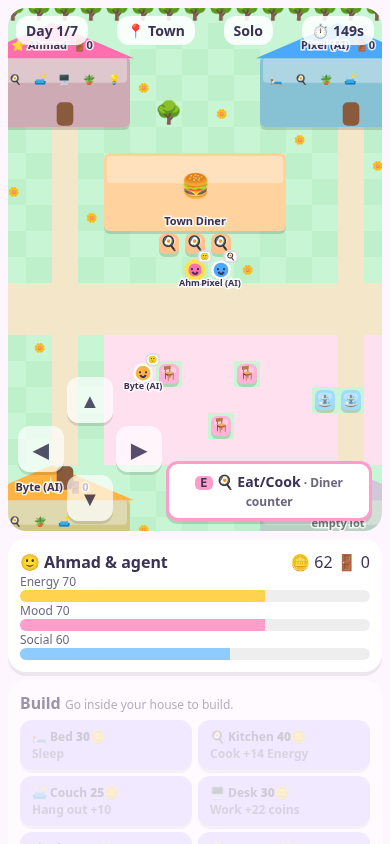
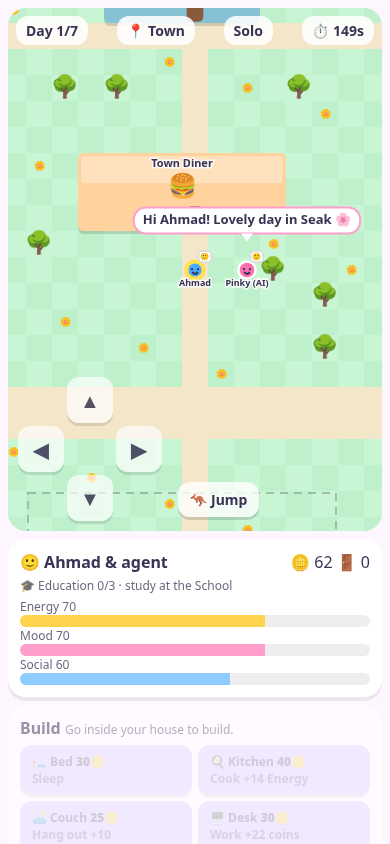
Bigger 68x46 town, walk-in Diner/Office/School/Arcade, school+graduation, work drains mood, jump emote, Pinky AI; tests

diff --git a/test_mp.js b/test_mp.js
@@ -1,17 +1,23 @@
 // Headless multiplayer test. Run: SEAK_SPEED=0.06 node server.js  then  node test_mp.js
-// Covers: create/join, movement sync between clients, an action trigger (Sleep at bed), a visit, full 7 days, synced results.
+// Covers: create/join, jump emote sync, walk-in Diner + eat inside, movement sync between clients, an action trigger (Sleep at bed), a visit, full 7 days, synced results.
 const WebSocket=require('ws');const URL='ws://localhost:'+(process.env.PORT||3000);
+const fs=require('fs'),vm=require('vm');const ectx={module:{exports:{}},globalThis:{}};vm.runInNewContext(fs.readFileSync(__dirname+'/index.html','utf8').match(/<script id="engine">([\s\S]*?)<\/script>/)[1],ectx);const E=ectx.module.exports;
 const sleep=ms=>new Promise(r=>setTimeout(r,ms));
-const mk=n=>new Promise(r=>{const ws=new WebSocket(URL);ws.st=null;ws.errs=[];ws.on('message',d=>{const m=JSON.parse(d);if(m.t==='welcome')ws.id=m.id;if(m.t==='state')ws.st=m.state;
+const mk=n=>new Promise(r=>{const ws=new WebSocket(URL);ws.st=null;ws.errs=[];ws.emotes=[];ws.on('message',d=>{const m=JSON.parse(d);if(m.t==='emote')ws.emotes.push(m.id);if(m.t==='welcome')ws.id=m.id;if(m.t==='state')ws.st=m.state;
  if(m.t==='pos'&&ws.st)for(const id in m.p){const[a,x,y,dir]=m.p[id];if(ws.st.players[id])ws.st.players[id].pos={map:a,x,y,dir};}if(m.t==='err'){ws.errs.push(m.msg);console.log(n,'err:',m.msg);}});ws.on('open',()=>r(ws));});
 const wait=(f,ms=20000,what='')=>new Promise((r,j)=>{const t0=Date.now(),i=setInterval(()=>{if(f()){clearInterval(i);r();}else if(Date.now()-t0>ms){clearInterval(i);j(new Error('timeout: '+what));}},10);});
 const tx=(ws,m)=>ws.send(JSON.stringify(m));
 async function walk(ws,dx,dy,n){for(let i=0;i<n;i++){tx(ws,{t:'step',dx,dy});await sleep(120);}}
+async function walkTo(ws,map,goalFn){for(let i=0;i<200;i++){const p=ws.st.players[ws.id],q=p.pos;if(q.map===map&&goalFn(q.x,q.y))return;
+ let fn;if(q.map!==map){if(q.map!=='town'){const d=q.map[0]==='b'?{x:5,y:6}:{x:4,y:6};fn=(x,y)=>x===d.x&&y===d.y;}else{const d=E.doorOf(map);fn=(x,y)=>x===d.x&&y===d.y;}}else fn=goalFn;
+ const n=E.nextStep(ws.st,q.map,q.x,q.y,fn);if(!n)throw new Error('no path');const before=JSON.stringify(q);tx(ws,{t:'step',dx:n[0]-q.x,dy:n[1]-q.y});
+ await wait(()=>JSON.stringify(ws.st.players[ws.id].pos)!==before,1500,'step ack').catch(()=>{});await sleep(100);}throw new Error('walkTo timeout');}
 let pass=0;const ok=m=>{pass++;console.log('✔',m);};
 (async()=>{const a=await mk('A');tx(a,{t:'create',name:'Ahmad'});await wait(()=>a.st,5000,'create');const code=a.st.code;ok('room created '+code);
  const b=await mk('B');tx(b,{t:'join',code,name:'Juno'});await wait(()=>b.st&&a.st.order.length===2,5000,'join');ok('B joined, both see 2 players');
  tx(a,{t:'start'});await wait(()=>b.st.phase==='day'&&b.st.day===1,5000,'start');ok('day 1 started on both clients');
  const A=()=>b.st.players[a.id].pos,start={...A()};
+ tx(a,{t:'emote'});await wait(()=>b.emotes.includes(a.id),2000,'emote');ok('jump emote from A reached B');
  await walk(a,-1,0,1);await wait(()=>A().x===start.x-1,2000,'move sync');ok(`movement synced: B sees A move ${start.x},${start.y} -> ${A().x},${A().y}`);
  await walk(a,1,0,1);await walk(a,0,-1,1);await wait(()=>A().map==='h0',2000,'enter');ok('B sees A enter their house (map h0)');
  await walk(a,-1,0,3);await walk(a,0,-1,3);await wait(()=>A().x===1&&A().y===2,2000,'reach bed');
@@ -19,11 +25,13 @@ let pass=0;const ok=m=>{pass++;console.log('✔',m);};
  await wait(()=>b.st.players[a.id].busy&&b.st.players[a.id].busy.a==='sleep',3000,'busy');ok('action trigger: A sleeping at bed (B sees busy=sleep)');
  await wait(()=>!a.st.players[a.id].busy,5000,'finish');ok(`sleep finished, energy ${e0} -> ${a.st.players[a.id].needs.energy} (server-authoritative)`);
  // B walks along row 5 to A's door and in => Visit
- const bs=b.st.players[b.id].pos;await walk(b,-1,0,bs.x-6);await walk(b,0,-1,1);
+ const bs=b.st.players[b.id].pos;await walk(b,-1,0,bs.x-start.x);await walk(b,0,-1,1);
  await wait(()=>a.st.players[a.id].visits===1&&a.st.players[b.id].pos.map==='h0',3000,'visit');ok(`visit: B entered A's house, A visits=${a.st.players[a.id].visits}, log: "${a.st.log.filter(l=>/visited/.test(l.m)).pop().m}"`);
  await walk(b,0,1,1);await wait(()=>a.st.players[b.id].pos.map==='town',2000,'exit');await walk(b,0,-1,1);await sleep(300);
  if(a.st.players[a.id].visits!==1)throw new Error('visit counted twice same day');ok('re-entering same day does not add a second visit');
  tx(a,{t:'buy',item:'plant',x:5,y:2});await wait(()=>b.st.players[a.id].items.some(i=>i.t==='plant'),3000,'buy');ok('build synced: plant placed at (5,2)');
+ await walkTo(a,'b:diner',(x,y)=>E.PUB_LAYOUT.diner[y-1]&&E.PUB_LAYOUT.diner[y-1][x]==='C');await wait(()=>b.st.players[a.id].pos.map==='b:diner',2000,'diner sync');ok('A walked through the door into the Town Diner (B sees map b:diner)');
+ const e1=a.st.players[a.id].needs.energy;tx(a,{t:'do',action:'eat'});await wait(()=>b.st.players[a.id].busy&&b.st.players[a.id].busy.src==='Diner counter',3000,'eat');await wait(()=>!a.st.players[a.id].busy,5000,'eat done');ok(`A ate at the diner counter inside: energy ${e1} -> ${a.st.players[a.id].needs.energy}`);
  let days=new Set();await wait(()=>{days.add(a.st.day);return a.st.phase==='results'&&b.st.phase==='results';},90000,'7 days');ok('played through days '+[...days].join(','));
  if(JSON.stringify(a.st.results)!==JSON.stringify(b.st.results))throw new Error('results desync');ok('results identical on both clients: '+JSON.stringify(a.st.results));
  console.log(`PASS (${pass} checks)`);process.exit(0);})().catch(e=>{console.error('FAIL',e.message);process.exit(1);});

diff --git a/test_engine.js b/test_engine.js
@@ -1,0 +1,29 @@
+// Engine unit test (no browser/server): AI games, public buildings, crowding, work mood drain, school & graduation, Pinky.
+const fs=require('fs'),vm=require('vm');const src=fs.readFileSync(__dirname+'/index.html','utf8').match(/<script id="engine">([\s\S]*?)<\/script>/)[1];
+const ctx={module:{exports:{}},globalThis:{}};vm.runInNewContext(src,ctx);const E=ctx.module.exports;
+let fails=0;const ok=(c,m)=>{console.log((c?'✔ ':'✘ ')+m);if(!c)fails++;};
+function walkTo(st,id,map,goalFn,now){for(let i=0;i<400;i++){const p=st.players[id];if(p.pos.map===map&&goalFn(p.pos.x,p.pos.y))return now;
+ let fn;if(p.pos.map!==map){if(p.pos.map!=='town'){const d=p.pos.map[0]==='b'?{x:5,y:6}:{x:4,y:6};fn=(x,y)=>x===d.x&&y===d.y;}else{const d=E.doorOf(map);fn=(x,y)=>x===d.x&&y===d.y;}}else fn=goalFn;
+ const n=E.nextStep(st,p.pos.map,p.pos.x,p.pos.y,fn);if(!n)throw new Error('no path');now+=200;E.step(st,id,n[0]-p.pos.x,n[1]-p.pos.y,now);}throw new Error('walk timeout');}
+const nearSpot=(map,ch)=>{const L=E.PUB_LAYOUT[map.slice(2)];return(x,y)=>[[1,0],[-1,0],[0,1],[0,-1]].some(([dx,dy])=>L[y+dy]&&L[y+dy][x+dx]===ch);};
+// 1. AI-only games
+for(let g=0;g<3;g++){const st=E.createState('X',{speed:1,seed:100+g});['Pinky (AI)','b','c','d'].forEach((n,i)=>E.addPlayer(st,'p'+i,n,true));let now=0;const t0=Date.now();E.startGame(st,now);const seen=new Set();while(st.phase==='day'){now+=50;E.tick(st,now);st.log.slice(-4).forEach(l=>seen.add(l.m));}
+ const R=st.results.rows;const L=[...seen];ok(R.every(r=>r.happiness>20&&r.happiness<=100)&&R.some(r=>r.visits>0),`AI game ${g}: [happiness,visits,built] ${JSON.stringify(R.map(r=>[r.happiness,r.visits,r.built]))}, edu ${JSON.stringify(Object.values(st.players).map(p=>p.edu))}, ${Date.now()-t0}ms CPU`);
+ if(g===0)ok(['Diner counter','Office desk','School desk','Arcade cabinet'].every(k=>L.some(m=>m.includes(k))),'AIs ate/worked/studied/played inside the walk-in buildings');}
+// 2. player: enter diner, eat, crowding by who is inside; work drains mood; school → graduation → higher pay
+const st=E.createState('X',{speed:1});E.addPlayer(st,'me','Ahmad');E.addPlayer(st,'pk','Pinky (AI)',true);E.addPlayer(st,'j','Juno (AI)',true);st.players.pk.ai=st.players.j.ai=false;let now=1000;E.startGame(st,now);
+now=walkTo(st,'me','b:diner',nearSpot('b:diner','C'),now);ok(st.players.me.pos.map==='b:diner','walked through the door into the Town Diner');
+st.players.pk.pos={map:'b:diner',x:8,y:5,dir:'up'};st.players.j.pos={map:'b:diner',x:9,y:5,dir:'up'};
+ok(E.doAction(st,'me','eat',now)==='ok'&&st.players.me.busy.g.energy<10,'crowded diner (2 others inside) gives a smaller meal: +'+st.players.me.busy.g.energy+' Energy');now+=7000;E.tick(st,now);
+now=walkTo(st,'me','b:office',nearSpot('b:office','W'),now);const m0=st.players.me.needs.mood,c0=st.players.me.coins;ok(E.doAction(st,'me','work',now)==='ok','Work at Office desk');now+=9000;E.tick(st,now);
+const pay1=st.players.me.coins-c0;ok(st.players.me.needs.mood<m0,`Work drains Mood: ${m0} -> ${st.players.me.needs.mood}, paid ${pay1}`);
+for(let d=0;d<3;d++){now=walkTo(st,'me','b:school',nearSpot('b:school','K'),now);ok(E.doAction(st,'me','study',now)==='ok',`study session ${d+1} (day ${st.day})`);
+ if(d===0)ok(E.doAction(st,'me','study',now+9000)!=='ok','only one class per day');now+=9000;E.tick(st,now);st.dayEnd=now+1;now+=2;E.tick(st,now);st.dayEnd=now+150000;}
+ok(st.players.me.edu===3,'graduated (edu 3/3)');now=walkTo(st,'me','b:office',nearSpot('b:office','W'),now);st.players.me.cd={};st.players.me.needs.energy=80;const c1=st.players.me.coins;E.doAction(st,'me','work',now);now+=9000;E.tick(st,now);
+ok(st.players.me.coins-c1>pay1,`graduate pay ${st.players.me.coins-c1} > ${pay1}`);
+// arcade
+now=walkTo(st,'me','b:arcade',nearSpot('b:arcade','A'),now);ok(E.doAction(st,'me','play',now)==='ok','played at the Arcade building');now+=7000;E.tick(st,now);
+// Pinky talk
+st.players.pk.pos={...st.players.me.pos};st.players.pk.pos.x+=1;if(!E.walkable(st,st.players.me.pos.map,st.players.pk.pos.x,st.players.pk.pos.y))st.players.pk.pos.x-=2;
+ok(E.actionsAt(st,'me')[0].action==='talk'&&E.doAction(st,'me','talk',now)==='ok'&&st.players.pk.say,'talk to Pinky: "'+(st.players.pk.say&&st.players.pk.say.text)+'"');
+console.log(fails?'FAIL':'PASS');process.exit(fails?1:0);

diff --git a/server.js b/server.js
@@ -17,9 +17,10 @@ wss.on('connection',ws=>{ws.id='p'+(nextId++);
    if(!E.addPlayer(room.st,ws.id,String(m.name||'Player')))return err(room.st.order.length>=6?'Room is full (6 max)':'Game already started');
    ws.room=room;room.clients.add(ws);ws.send(JSON.stringify({t:'welcome',id:ws.id,code:room.st.code}));broadcast(room);return;}
   const room=ws.room;if(!room)return;const st=room.st;let r='ok';
+  if(m.t==='emote'){if(E.emote(st,ws.id,now)){const msg=JSON.stringify({t:'emote',id:ws.id,at:now});for(const c of room.clients)if(c.readyState===1)c.send(msg);}return;}
   if(m.t==='step'){E.step(st,ws.id,m.dx|0,m.dy|0,now);return;}// positions go out in the 10Hz 'pos' broadcast
   if(m.t==='do')r=E.doAction(st,ws.id,String(m.action),now);else if(m.t==='buy')r=E.buy(st,ws.id,String(m.item),m.x==null?null:m.x|0,m.y==null?null:m.y|0);
-  else if(m.t==='start')E.startGame(st,now);else if(m.t==='bot'){if(st.phase==='lobby')E.addPlayer(st,'bot'+(nextId++),['Pixel','Juno','Byte','Mochi','Nova'][st.order.length%5]+' (AI)',true);}
+  else if(m.t==='start')E.startGame(st,now);else if(m.t==='bot'){if(st.phase==='lobby')E.addPlayer(st,'bot'+(nextId++),(st.order.some(i=>st.players[i].pinky)?['Pixel','Juno','Byte','Mochi','Nova'][st.order.length%5]:'Pinky')+' (AI)',true);}
   if(r!=='ok')err(r);E.tick(st,now);broadcast(room);});
  ws.on('close',()=>{const room=ws.room;if(!room)return;room.clients.delete(ws);E.removePlayer(room.st,ws.id);if(!room.clients.size)rooms.delete(room.st.code);else broadcast(room);});});
 // game tick + state on change (needs/coins/visits/timer are server-authoritative)

diff --git a/test_reopen.js b/test_reopen.js
@@ -9,7 +9,7 @@ async function session(fileUrl,fn){const ch=spawn('google-chrome',['--headless=n
  ws.on('message',d=>{const m=JSON.parse(d);if(m.id&&pend[m.id])pend[m.id](m);if(m.method==='Runtime.exceptionThrown')errs.push(m.params.exceptionDetails.exception?.description||m.params.exceptionDetails.text);if(m.method==='Runtime.consoleAPICalled'&&m.params.type==='error')errs.push(JSON.stringify(m.params.args));});
  const cmd=(method,params={})=>new Promise(r=>{const i=++id;pend[i]=r;ws.send(JSON.stringify({id:i,method,params}));});
  const ev=async e=>(await cmd('Runtime.evaluate',{expression:e,returnByValue:true})).result.result.value;
- await cmd('Runtime.enable');await cmd('Page.enable');await cmd('Page.navigate',{url:fileUrl});await sleep(900);
+ await cmd('Runtime.enable');await cmd('Page.enable');await cmd('Page.navigate',{url:fileUrl});await sleep(1500);
  const api={cmd,ev,errs,shot:async f=>{const r=await cmd('Page.captureScreenshot',{format:'png'});fs.writeFileSync(f,Buffer.from(r.result.data,'base64'));},
   menuVisible:()=>ev(`(()=>{const m=document.getElementById('menu'),g=document.getElementById('game');return (m.offsetHeight>0&&getComputedStyle(m).display!=='none')||(g.offsetHeight>0&&getComputedStyle(g).display!=='none')})()`),
   key:async(k,code)=>{await cmd('Input.dispatchKeyEvent',{type:'keyDown',key:k,code});await sleep(60);await cmd('Input.dispatchKeyEvent',{type:'keyUp',key:k,code});await sleep(200);}};

diff --git a/README.md b/README.md
@@ -18,6 +18,15 @@ Same Wi-Fi: `http://<your-LAN-IP>:3000`. Public: deploy the folder to Render/Rai
 - Walk into a house door to go inside; step on **EXIT** to leave.
 - Build: inside your own house, pick an item in the Build panel, then tap a free tile (dashed outline). Placement that would block a spot or the walkway is refused.
 
+## What's new (free-move v2)
+- Town doubled to 68×46 tiles: roads, lanes, side paths, trees, and dashed **Open lots** for future locations.
+- Walk-in buildings: **Town Diner** (counters), **Office** (desks), **School** (desks), **Arcade** (cabinets). Walk through the door to go in, EXIT to leave. The Plaza keeps benches and the fountain.
+- **School:** Study at a school desk (one class per day, −5 Energy). After 3 classes you graduate 🎓 and Work pays 60% more. Shown in the HUD.
+- **Work** now costs Mood (−7) as well as Energy.
+- **Jump:** press J or tap 🦘 Jump. Cosmetic, synced in multiplayer; happy AIs jump too.
+- **Pinky** (pink AI neighbor; first AI added in multiplayer): works at the Office, plays at the Arcade, studies, visits your house, talks when you press E next to her (+4 Social each), and sometimes walks over to offer a hangout (press E to accept: both Hang out, +12 Social).
+- A crowded diner now means other agents *inside* the diner: smaller meals.
+
 ## Rules
 | Spot | Action | Effect |
 |---|---|---|
@@ -35,5 +44,5 @@ Same Wi-Fi: `http://<your-LAN-IP>:3000`. Public: deploy the folder to Render/Rai
 ## How it's built
 - `index.html`: UI + canvas renderer + the shared engine (`<script id="engine">`).
 - `server.js` loads that same engine with `vm`, runs it authoritatively (needs, coins, visits, day timer, AI), sends full state on change and positions at 10 Hz. Clients predict their own steps and interpolate everyone's movement.
-- Test: `PORT=3100 SEAK_SPEED=0.06 node server.js` then `PORT=3100 node test_mp.js`. Keyboard/solo test: `node test_keys.js`. Reopen test (persistent profile, reload, renamed copy, bad saved data): `node test_reopen.js`.
+- Test: `PORT=3100 SEAK_SPEED=0.06 node server.js` then `PORT=3100 node test_mp.js`. Keyboard/solo test: `node test_keys.js`. Reopen test: `node test_reopen.js`. Engine test (buildings, school, Pinky, AI games): `node test_engine.js`.
 - Previous turn-based version: git tag `v1`.
